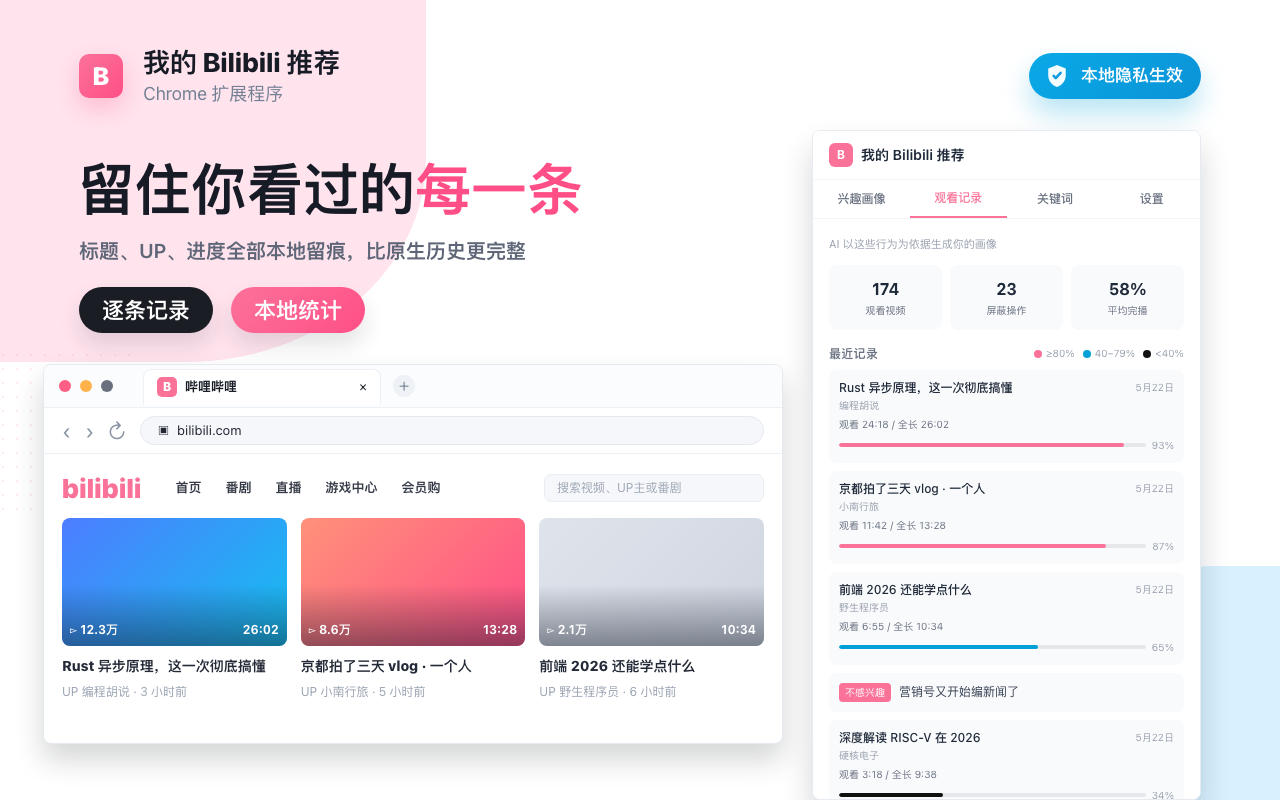
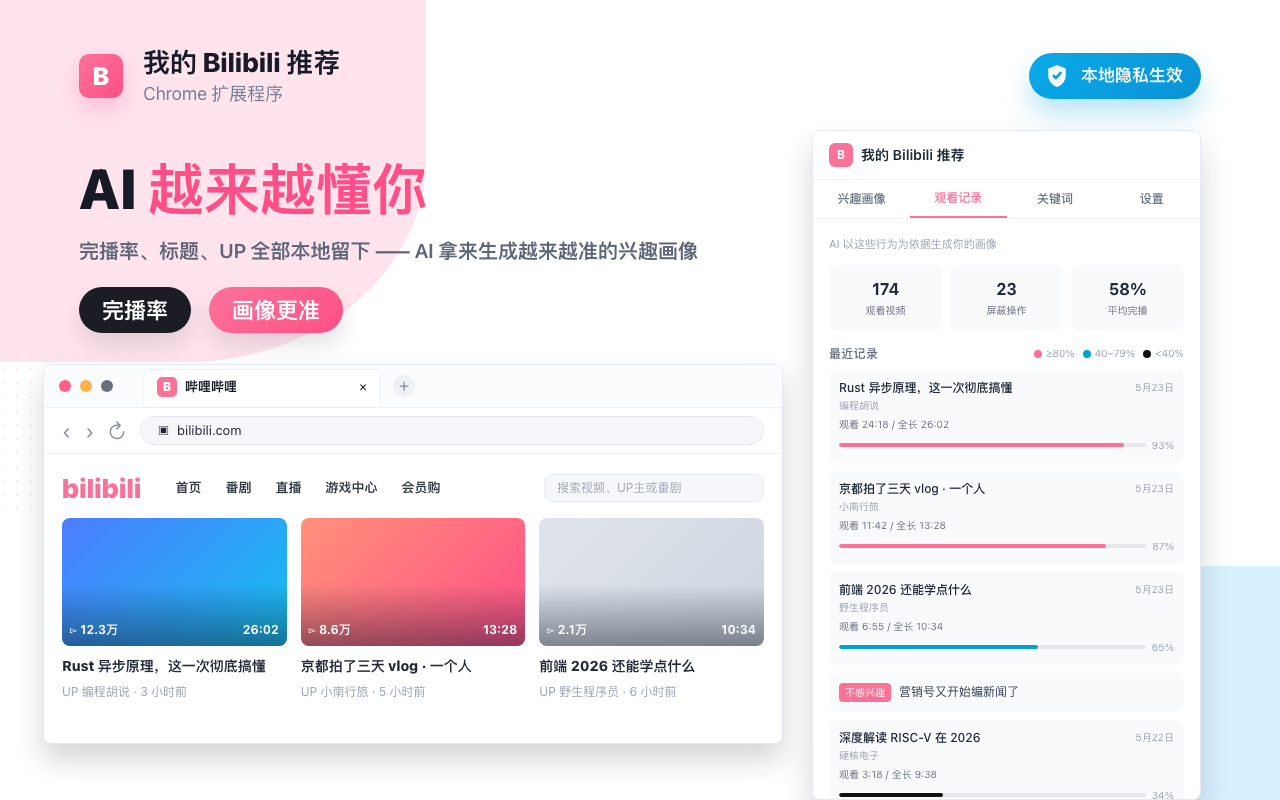
fix(promo): history-insights hero pivot — process → outcome
旧文案 100% 描述"记录"这个中间过程（留住每一条 / 逐条记录 / 本地统计），
没说为什么记录。用户看 promo 不买"我们记录了你看的东西"，要买的是
"记录这些东西能给我什么好处"。

重写为 data → AI outcome 因果链：

- h1: 留住你看过的每一条 → AI 越来越懂你
- sub: 标题/UP/进度本地留痕（机制描述）
  → 完播率/标题/UP 本地留下 —— AI 拿来生成越来越准的兴趣画像（因果）
- pills: 逐条记录/本地统计 → 完播率/画像更准

scene 视觉结构不变：左侧推荐流 + 右侧 popup HistoryView 仍然演示"data"，
但 hero 现在告诉读者这些 data 服务的真正目的。

Changed region(s): [[0.0625, 0.1875, 0.5625, 0.4375]]

diff --git a/src/promo/scenes/history-insights.tsx b/src/promo/scenes/history-insights.tsx
@@ -69,10 +69,10 @@ export default function HistoryInsightsScene() {
       {/* Hero 文案 */}
       <section style={{ position: 'absolute', left: 79, top: 155, zIndex: 3 }}>
         <h1 style={{ width: 690, fontSize: 56, lineHeight: 1.18, fontWeight: 900, color: '#171b26' }}>
-          留住你看过的<span style={{ color: '#ff4f86' }}>每一条</span>
+          AI <span style={{ color: '#ff4f86' }}>越来越懂你</span>
         </h1>
         <p style={{ marginTop: 16, fontSize: 20, lineHeight: 1.4, fontWeight: 600, color: '#5e6677' }}>
-          标题、UP、进度全部本地留痕，比原生历史更完整
+          完播率、标题、UP 全部本地留下 —— AI 拿来生成越来越准的兴趣画像
         </p>
         <div style={{ marginTop: 22, display: 'flex', alignItems: 'center', gap: 18 }}>
           <div style={{
@@ -81,14 +81,14 @@ export default function HistoryInsightsScene() {
             color: 'white', fontSize: 22, fontWeight: 800, lineHeight: 1,
             background: '#1b1d24',
             boxShadow: '0 12px 22px rgba(23, 27, 38, 0.12)',
-          }}>逐条记录</div>
+          }}>完播率</div>
           <div style={{
             height: 46, padding: '0 23px', borderRadius: 999,
             display: 'inline-flex', alignItems: 'center', justifyContent: 'center',
             color: 'white', fontSize: 22, fontWeight: 800, lineHeight: 1,
             background: 'linear-gradient(135deg, #fb7299 0%, #ff4f86 100%)',
             boxShadow: '0 12px 22px rgba(23, 27, 38, 0.12)',
-          }}>本地统计</div>
+          }}>画像更准</div>
         </div>
       </section>
 
